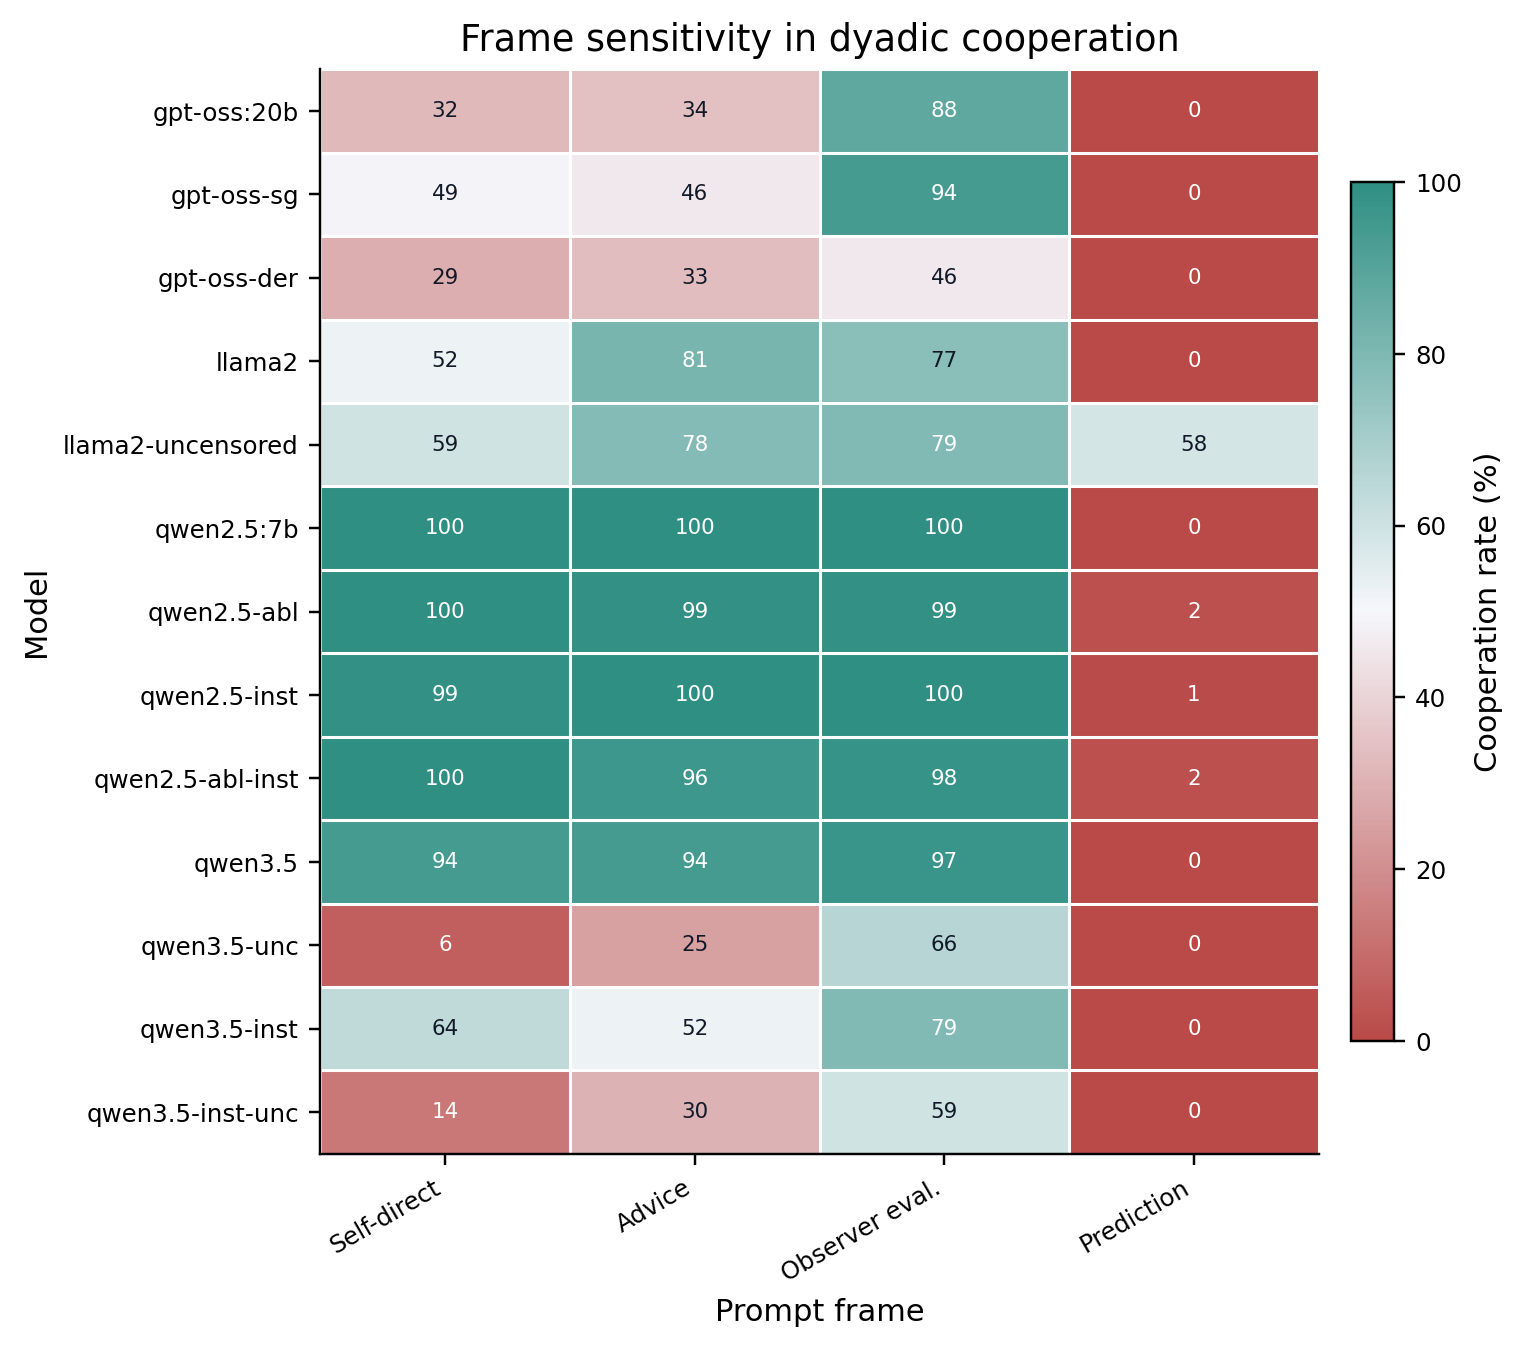
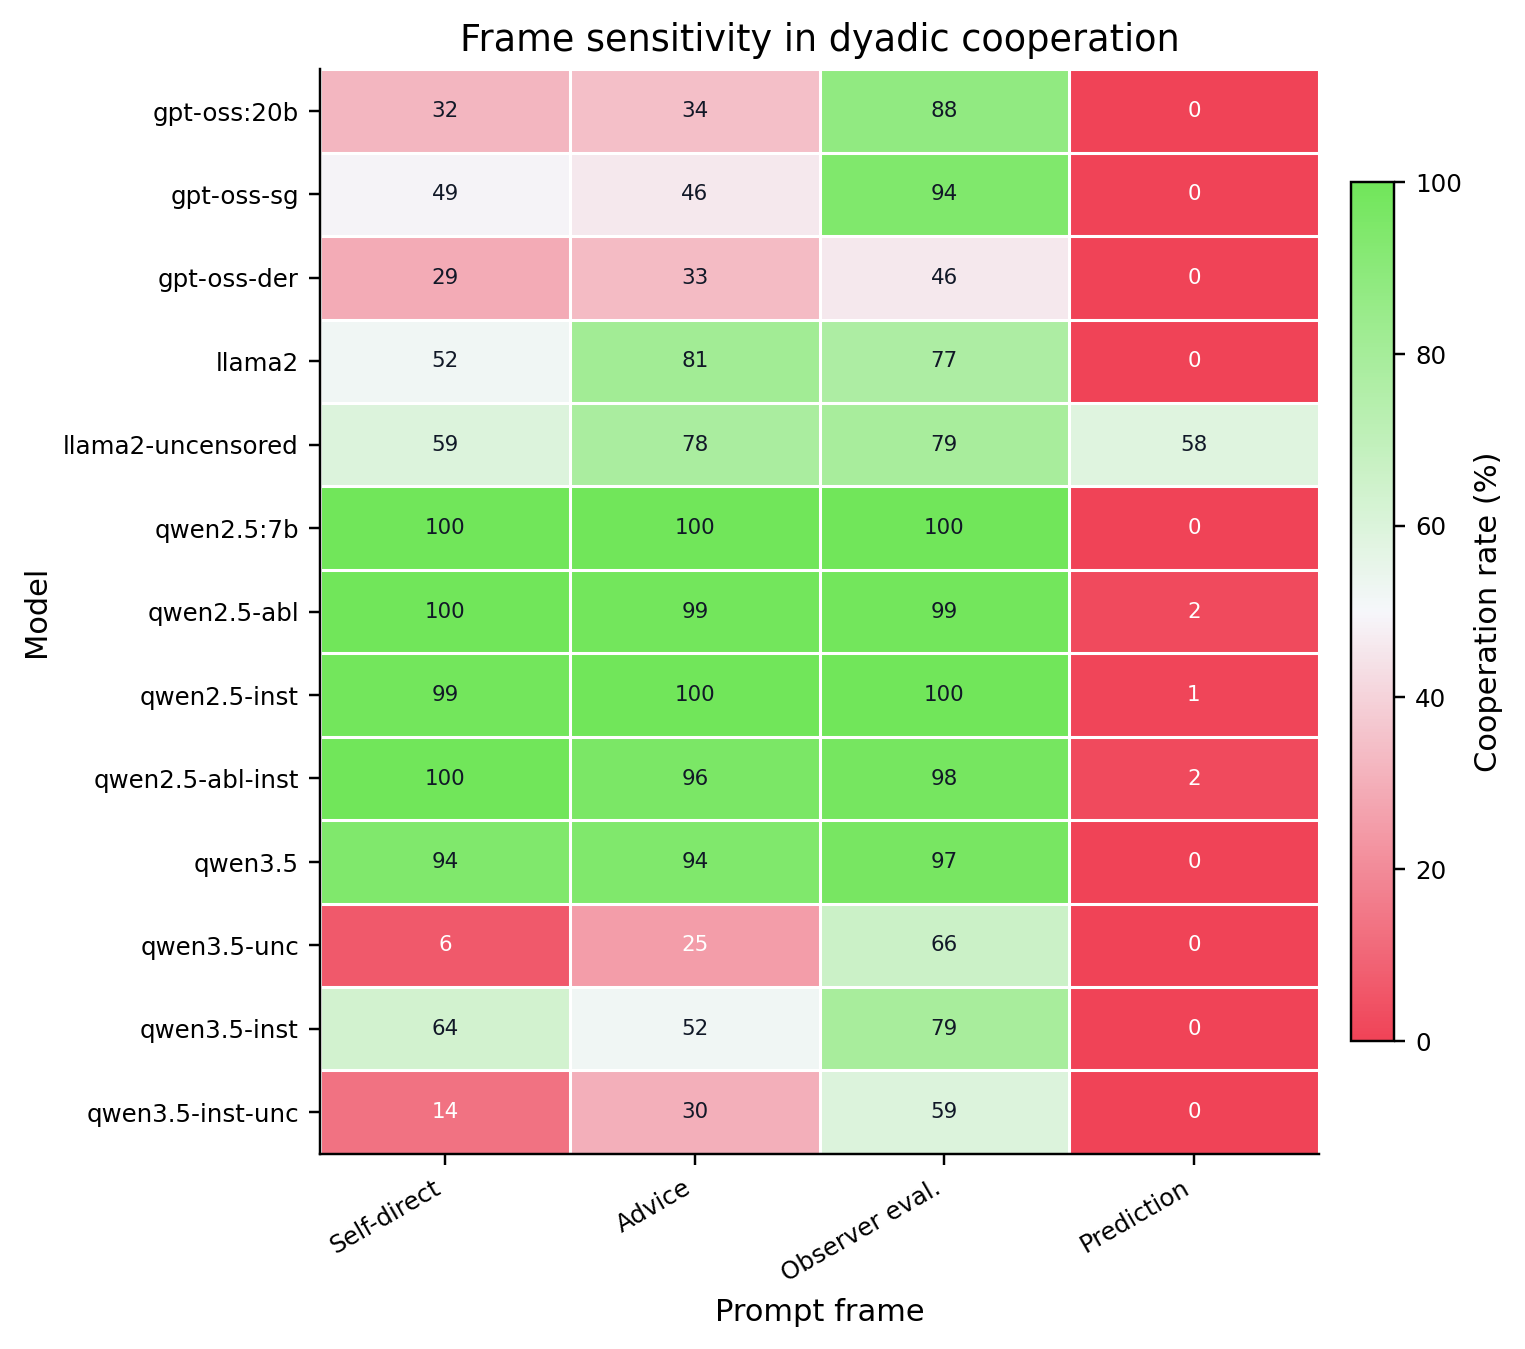
Update paper visual colors

diff --git a/data/graphs/paper_visuals.py b/data/graphs/paper_visuals.py
@@ -28,6 +28,10 @@ OUTPUT_DIR = Path("data") / "graphs" / "paper_visuals"
 MODEL_DECISIONS_PER_FULL_COMMONS_RUN = 5000
 COMMONS_HORIZON_DAYS = 100
 COMMONS_SOCIETY_SIZE = 50
+LOW_SCORE_COLOR = "#f04357"
+HIGH_SCORE_COLOR = "#71e65a"
+MISSING_SCORE_COLOR = "#e5e7eb"
+NEUTRAL_SCORE_COLOR = "#f6f7fb"
 FRAME_ORDER = ("self_direct", "advice", "observer_evaluation", "prediction")
 FRAME_LABELS = {
     "self_direct": "Self-direct",
@@ -98,7 +102,7 @@ def _setup_matplotlib():
     )
     cmap = LinearSegmentedColormap.from_list(
         "prosocial_score",
-        ["#b94a48", "#f6f7fb", "#2f8f83"],
+        [LOW_SCORE_COLOR, NEUTRAL_SCORE_COLOR, HIGH_SCORE_COLOR],
         N=256,
     )
     return plt, cmap
@@ -192,7 +196,7 @@ def render_behavioral_fingerprint_heatmap() -> Path:
     for row_index in range(matrix.shape[0]):
         for col_index in range(matrix.shape[1]):
             value = matrix[row_index, col_index]
-            text_color = "white" if value < 24 or value > 78 else "#111827"
+            text_color = "white" if value < 28 else "#111827"
             ax.text(col_index, row_index, f"{value:.0f}", ha="center", va="center", fontsize=7, color=text_color)
 
     cbar = fig.colorbar(image, ax=ax, fraction=0.025, pad=0.02)
@@ -235,7 +239,7 @@ def render_frame_sensitivity_heatmap() -> Path:
     for row_index in range(matrix.shape[0]):
         for col_index in range(matrix.shape[1]):
             value = matrix[row_index, col_index]
-            text_color = "white" if value < 24 or value > 78 else "#111827"
+            text_color = "white" if value < 28 else "#111827"
             ax.text(col_index, row_index, f"{value:.0f}", ha="center", va="center", fontsize=7, color=text_color)
 
     cbar = fig.colorbar(image, ax=ax, fraction=0.04, pad=0.03)
@@ -383,7 +387,7 @@ def render_agent_day_raster() -> Path:
 
     plt, _cmap = _setup_matplotlib()
     models, _trajectories, raster = _part2_trajectories()
-    cmap = ListedColormap(["#c9514a", "#2f8f83", "#e5e7eb"])
+    cmap = ListedColormap([LOW_SCORE_COLOR, HIGH_SCORE_COLOR, MISSING_SCORE_COLOR])
     norm = BoundaryNorm([-0.5, 0.5, 1.5, 2.5], cmap.N)
     fig, ax = plt.subplots(figsize=(12.5, 10.8))
     ax.imshow(raster, cmap=cmap, norm=norm, aspect="auto", interpolation="nearest")
@@ -398,9 +402,9 @@ def render_agent_day_raster() -> Path:
     for boundary in range(1, len(models)):
         ax.axhline(boundary * COMMONS_SOCIETY_SIZE - 0.5, color="white", linewidth=1.1)
     handles = [
-        mpatches.Patch(color="#2f8f83", label="Restrain"),
-        mpatches.Patch(color="#c9514a", label="Overuse"),
-        mpatches.Patch(color="#e5e7eb", label="No active decision"),
+        mpatches.Patch(color=HIGH_SCORE_COLOR, label="Restrain"),
+        mpatches.Patch(color=LOW_SCORE_COLOR, label="Overuse"),
+        mpatches.Patch(color=MISSING_SCORE_COLOR, label="No active decision"),
     ]
     ax.legend(handles=handles, loc="upper center", bbox_to_anchor=(0.5, -0.065), ncol=3, frameon=False)
     fig.tight_layout()
@@ -461,7 +465,7 @@ def render_part2_restraint_choice_heatmap() -> Path:
                 matrix[model_index, day_index] = row["restraint_rate"]
 
     heatmap_cmap = cmap.copy()
-    heatmap_cmap.set_bad("#e5e7eb")
+    heatmap_cmap.set_bad(MISSING_SCORE_COLOR)
     fig, ax = plt.subplots(figsize=(12.2, 6.6))
     image = ax.imshow(
         matrix,
